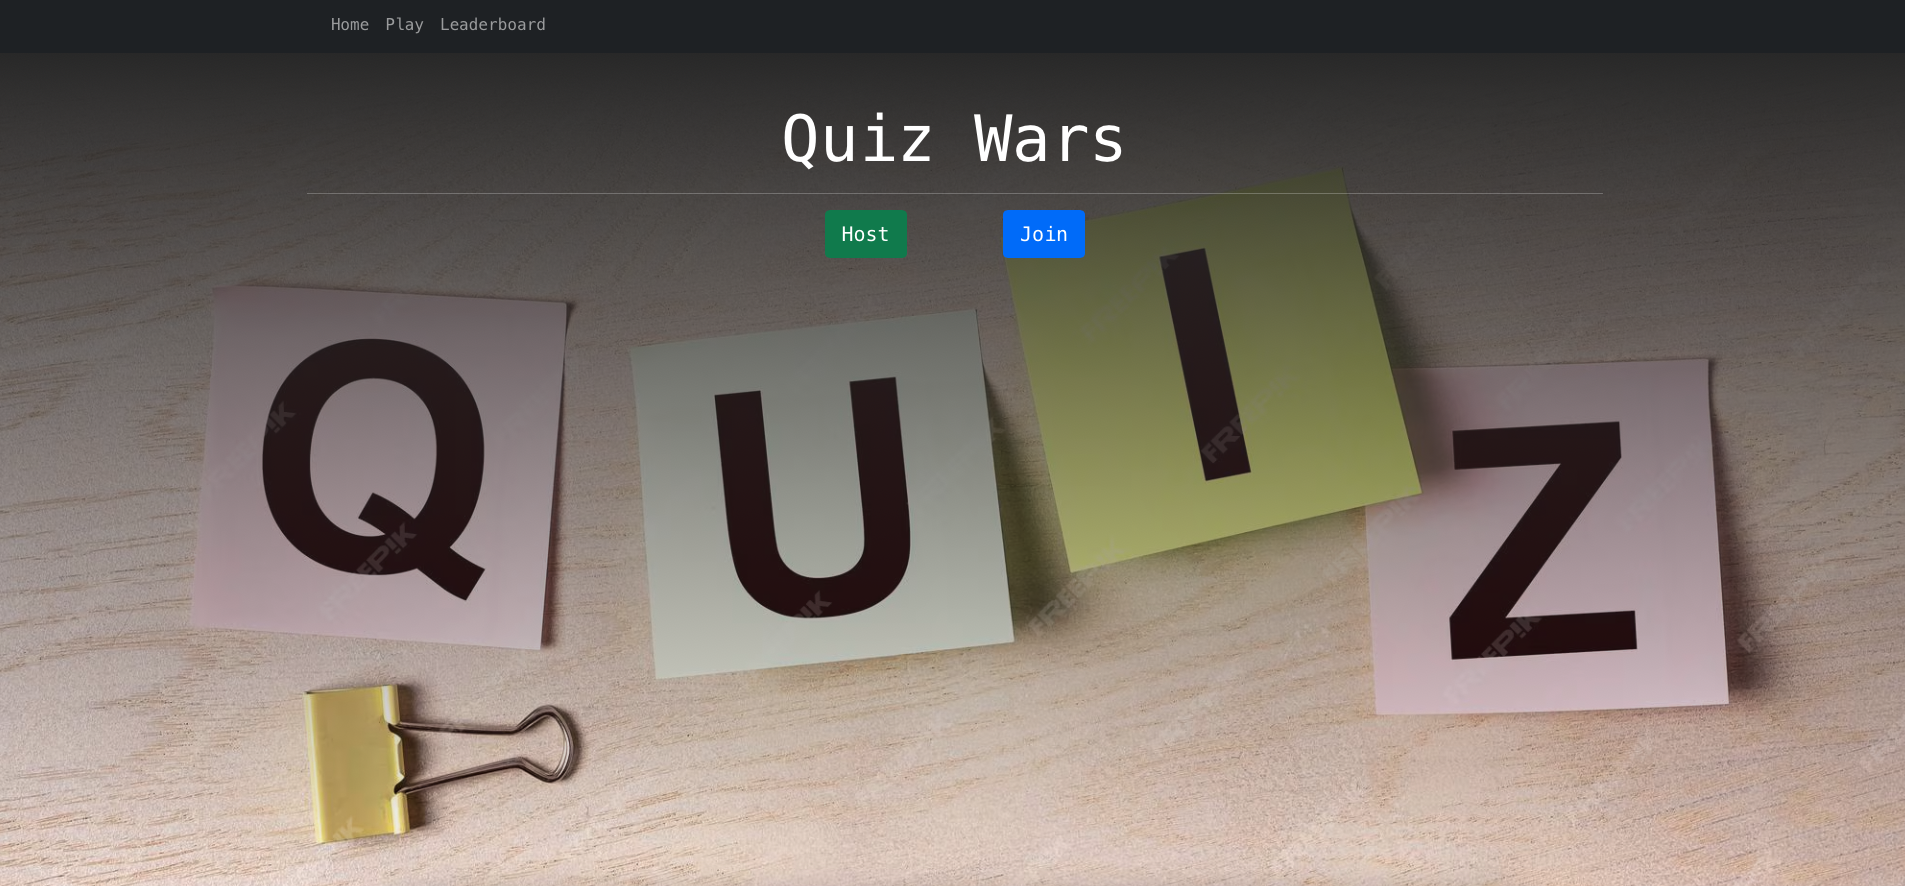
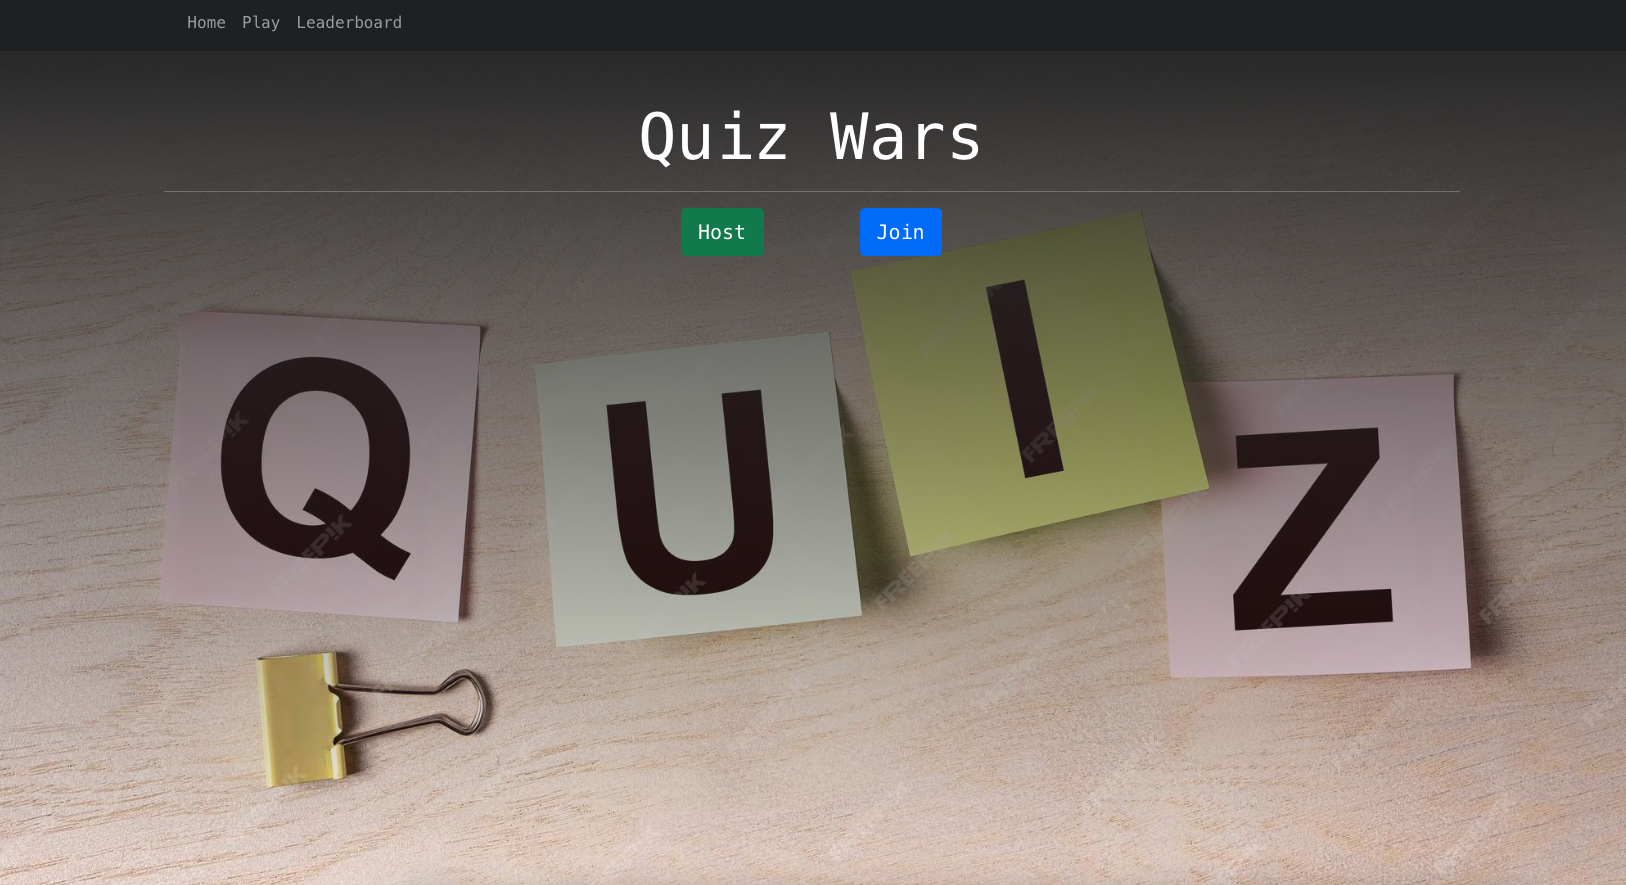
added some animation to the nav, information on projects and fixed some css

diff --git a/src/data/projects.ts b/src/data/projects.ts
@@ -8,39 +8,45 @@ interface ProjectProp {
 
 export const PROJECT: ProjectProp[] = [
     {
-        projectURL:"https://fp-habits.netlify.app",
+        projectURL: "https://fp-habits.netlify.app",
         title: "Habit Tracker",
         description:
-            "Habit Tracking App",
+            "Habit Tracking application - users have to create an account, to keep track of their personalised daily habits. Implemented jwt, and bcrypt for hashing users password to store in MongoDB.",
         technologies: [
-            "Javascript",
-            "Python",
             "HTML",
             "CSS",
-            "REST API",
-            "CRUD API",
-            "React",
+            "Javascript",
+            "Mongo"
         ],
         imagePath: "../assets/habit.png",
     },
     {
-        projectURL:"https://quiz-war.netlify.app",
+        projectURL: "https://quiz-war.netlify.app",
         title: "Quiz War",
         description:
-            "Quiz War App",
+            "Quiz War – using web sockets for limited online players in a game. Making use of Open Trivia DB API, React, and PostgreSQL for storing the users information.",
         technologies: [
-            "Node.js"
+            "React",
+            "Redux",
+            "Node.js",
+            "Jest",
+            "Docker",
+            "Express",
+            "Jest",
+            "PostgreSQL",
         ],
         imagePath: "../assets/quiz.png",
     },
     {
-        projectURL:"https://coding-cats.netlify.app",
+        projectURL: "https://coding-cats.netlify.app",
         title: "Coding-Cats Blogpage",
         description:
-            "Blogpage",
+            "Journal website - users can post anything anonymously and attach a giphy (using their API endpoints). Backend data is sent and stored in a .json file (no database).",
         technologies: [
-            "Next"
+            "HTML",
+            "CSS",
+            "Javascript",
         ],
-        imagePath: "../assets/anonBlog.png",
+        imagePath: "../assets/journal.png",
     },
 ];

diff --git a/src/data/socials.ts b/src/data/socials.ts
@@ -1,5 +1,6 @@
 import IconGithub from "../components/icons/github.astro";
 import IconLinkedin from "../components/icons/linkedin.astro";
+import IconMail from "../components/icons/mail.astro";
 
 export const SOCIALS = [
   {
@@ -11,5 +12,10 @@ export const SOCIALS = [
     name: "Linkedin",
     url: "https://www.linkedin.com/",
     icon: IconLinkedin,
+  },
+  {
+    name: "Mail",
+    url: "https://www.linkedin.com/",
+    icon: IconMail,
   },
 ];

diff --git a/src/styles/global.css b/src/styles/global.css
@@ -68,7 +68,7 @@
 
 .nav-list {
   margin-top: 4rem;
-  width: 100%;
+  max-width: max-content;
 }
 
 @media (max-width: 1023px) {
